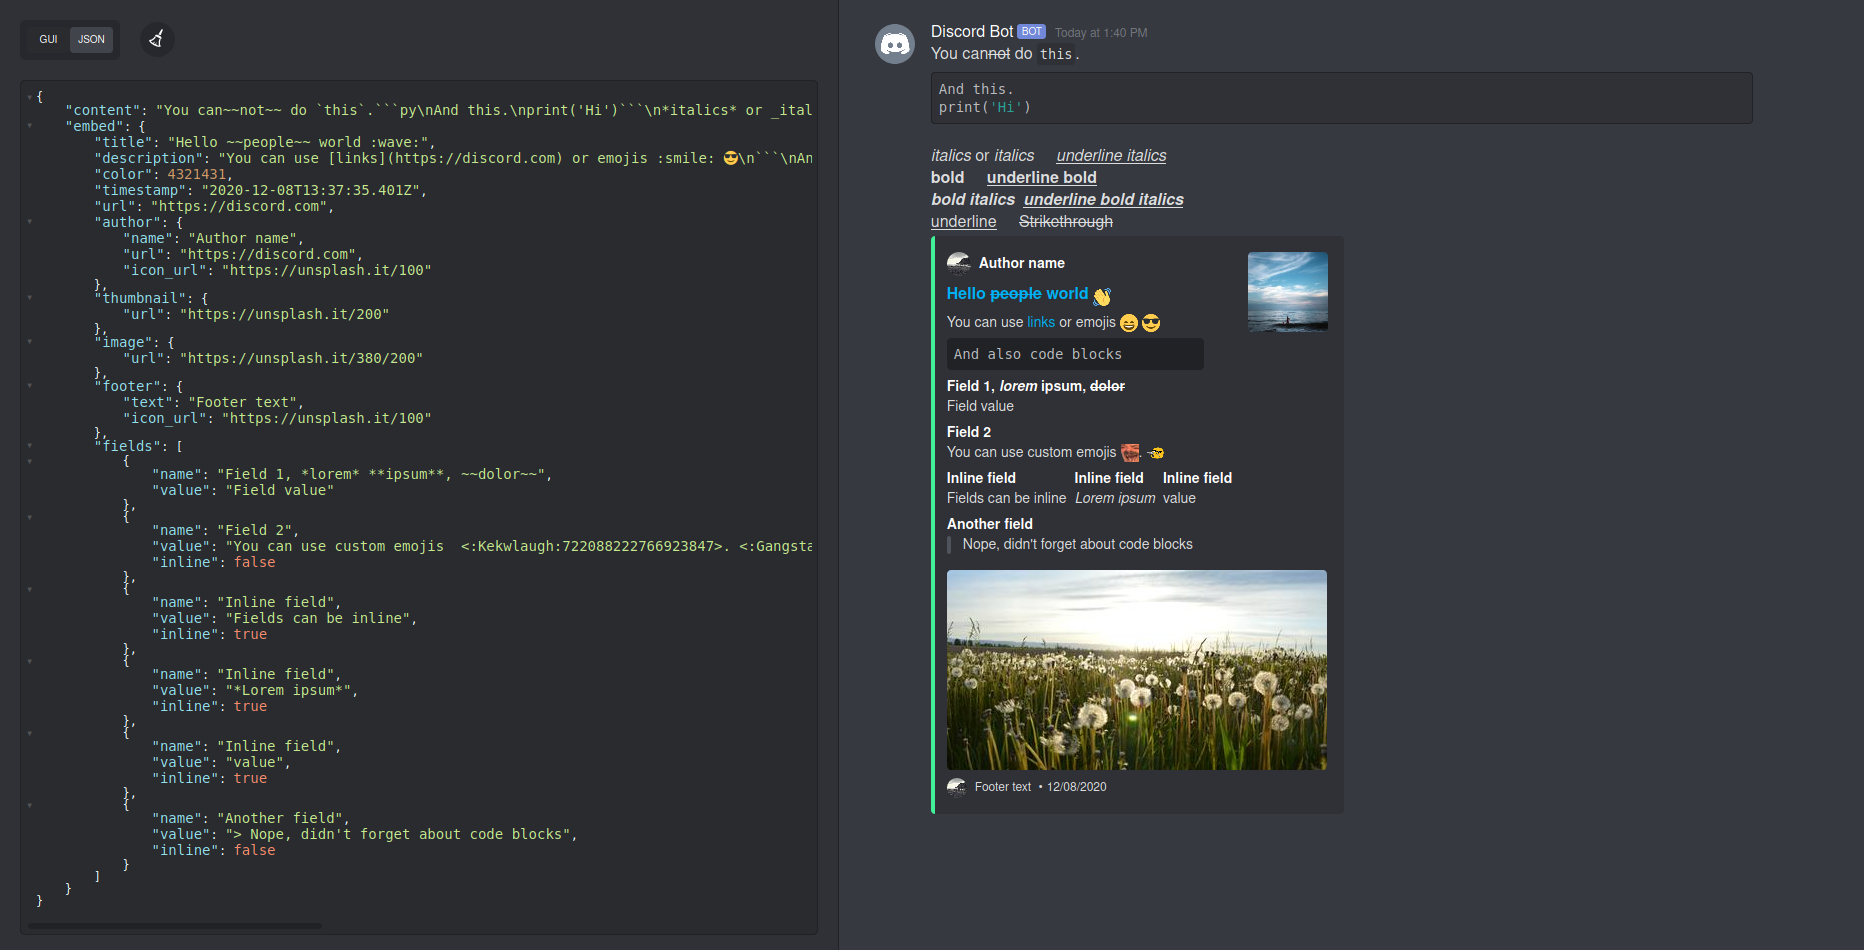
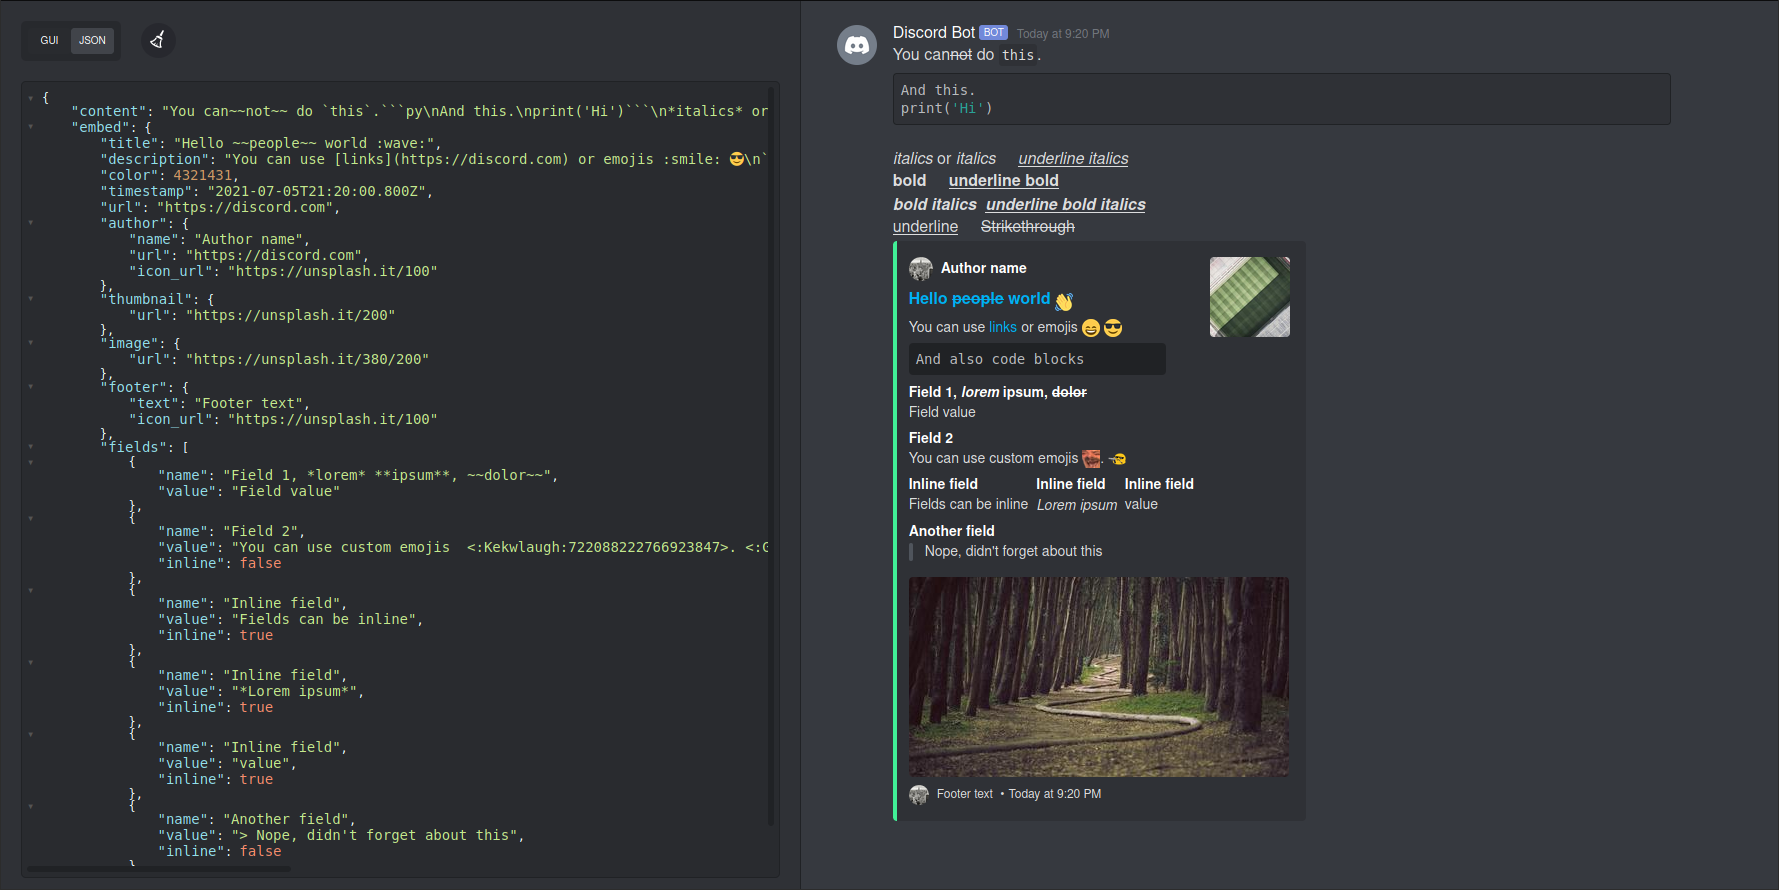
Fix tabs, auto-indent on new line, fix lining when using only 2 inline fields

diff --git a/assets/js/index.js b/assets/js/index.js
@@ -76,7 +76,6 @@ window.onload = () => {
         gui = guiParent.querySelector('.gui:first-of-type');
     window.editor = CodeMirror(elt => editorHolder.parentNode.replaceChild(elt, editorHolder), {
         value: JSON.stringify(json, null, 4),
-        extraKeys: { Tab: cm => cm.replaceSelection("    ", "end") },
         gutters: ["CodeMirror-foldgutter", "CodeMirror-lint-markers"],
         scrollbarStyle: "overlay",
         mode: "application/json",
@@ -84,6 +83,22 @@ window.onload = () => {
         matchBrackets: true,
         foldGutter: true,
         lint: true,
+        extraKeys: {
+            // Make tabs four spaces long instead of the default two.
+            Tab: cm => cm.replaceSelection("    ", "end"),
+            // Fill in indent spaces on a new line when enter (return) key is pressed.
+            Enter: _ => {
+                let cur = editor.getCursor(), end = editor.getLine(cur.line),
+                    leadingSpaces = end.replace(/\S($|.)+/g, '') || '    \n', nextLine = editor.getLine(cur.line + 1);
+                if ((nextLine === undefined || !nextLine.trim()) && !end.substr(cur.ch).trim())
+                    editor.replaceRange('\n', { line: cur.line, ch: cur.ch });
+                else
+                    editor.replaceRange(`\n${end.endsWith('{') ? leadingSpaces + '    ' : leadingSpaces}`, {
+                        line: cur.line,
+                        ch: cur.ch
+                    });
+            },
+        }
     });
 
     editor.focus();
@@ -156,8 +171,7 @@ window.onload = () => {
             if (data) el.innerHTML = data;
             el.style.display = displayType || "unset";
         }, hide = el => el.style.removeProperty('display'),
-        imgSrc = (elm, src, remove) => remove ? elm.style.removeProperty('content') : elm.style.content = `url(${src})`,
-        toObj = jsonString => JSON.parse(jsonString.replace(/\\"|"(?:\\"|[^"])*"|(\/\/.*|\/\*[\s\S]*?\*\/)/g, (x, y) => y ? "" : x));
+        imgSrc = (elm, src, remove) => remove ? elm.style.removeProperty('content') : elm.style.content = `url(${src})`;
     buildGui = (object, opts) => {
         gui.innerHTML = `
             <div class="item content"><p class="ttle">Message content</p></div>
@@ -590,10 +604,12 @@ window.onload = () => {
                     colNum = 1;
                     let len = e.fields.filter(f => f.inline).length;
                     if (len === 2 || (len > 3 && len % 2 !== 0)) {
-                        let children = Array.from(embedFields.children), arr = children.filter(x => x === children[len] || x === children[len - 1]);
-                        arr[0] && (arr[0].style.gridColumn = '1 / 7');
-                        arr[1] && (arr[1].style.gridColumn = '7 / 13');
-                    }
+                        let children = embedFields.children;
+                        children[0] && (children[0].style.gridColumn = '1 / 7');
+                        children[1] && (children[1].style.gridColumn = '7 / 13');
+                        embed.style.maxWidth = "408px";
+                    } else
+                        embed.style.removeProperty('max-width');
                     display(embedFields, undefined, 'grid');
                 } else hide(embedFields);
                 embedCont.classList.remove('empty');
@@ -607,7 +623,13 @@ window.onload = () => {
     }
 
     editor.on('change', editor => {
-        try { update(toObj(editor.getValue())); }
+        //// Autofill when " key is typed on new line
+        // let line = editor.getCursor().line, text = editor.getLine(line)
+        // if (text.trim() === '"'){
+        // editor.replaceRange(text.trim() + ': ', { line, ch: line.length });
+        // editor.setCursor(line, text.length)
+        // }
+        try { update(JSON.parse(editor.getValue())); }
         catch (e) {
             if (editor.getValue()) return;
             embedCont.classList.add('empty');
@@ -646,7 +668,7 @@ window.onload = () => {
         document.querySelector('.botText').style.removeProperty('top');
 
     document.querySelector('.opt.gui').addEventListener('click', () => {
-        json = toObj(editor.getValue() || '{}');
+        json = JSON.parse(editor.getValue() || '{}');
         buildGui(json, { activate: activeFields });
         document.body.classList.add('gui');
         activeFields = null;

diff --git a/assets/css/index.css b/assets/css/index.css
@@ -593,6 +593,7 @@ u {
 
 .blockquote {
     display: flex;
+    display: -webkit-box;
 }
 
 .blockquote blockquote {
@@ -647,7 +648,7 @@ u {
     white-space: pre-wrap;
 }
 
-.markup pre, .markup blockquote {
+.markup pre, .markup > blockquote {
     max-width: 90%;
 }
 
